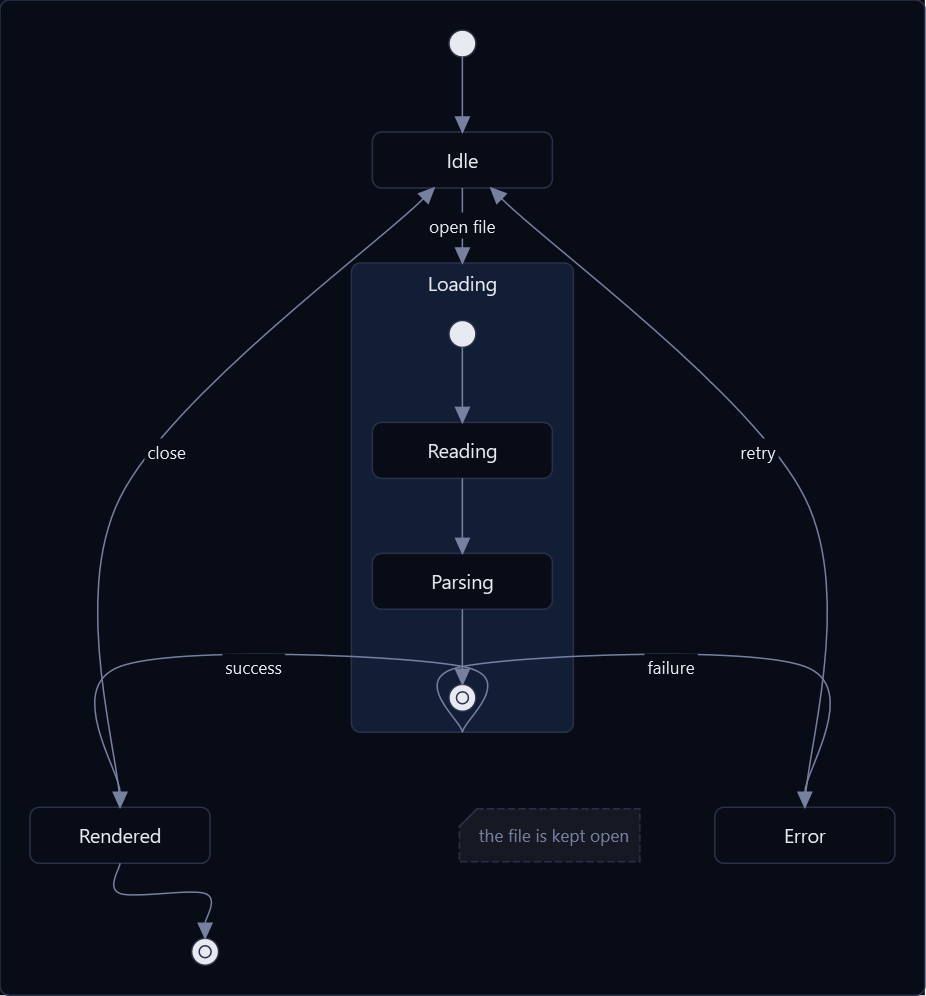
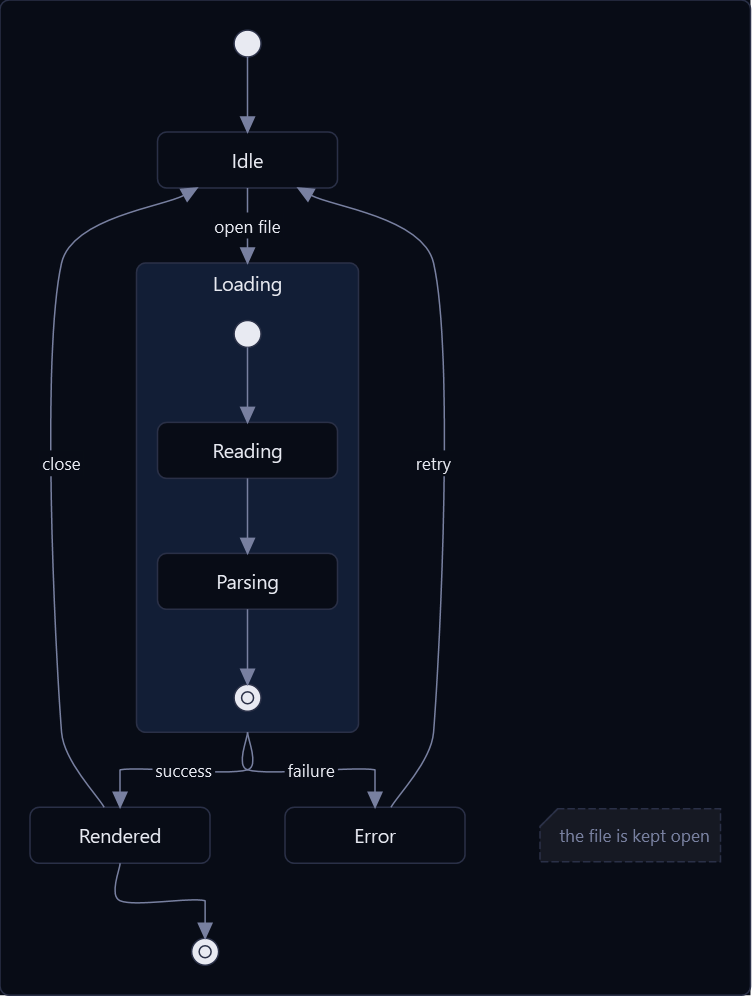
Route a line round what it passes, and into the back of its head
Four things the figures showed, all in the shared layout and connector.

A line turns in the air between two ranks rather than halfway between the
middles of what it joins: a box as deep as everything it holds has its middle
far past the edge the line leaves by, so a line bending there doubled back
into the box.

A line passing a rank runs alongside it rather than through the middle of it,
so it goes round a composite state instead of cutting the corner off it.

Two lines joining the same pair are bowed apart, so a transition each way
shows two arrows rather than one drawn over the other - which the legacy state
renderer did and this had stopped doing.

And a curve holds each handle to its own run, so it no longer overshoots a
corner, with the run into a head straight where that run is only as long as
the head is.

diff --git a/src/Nexaflow.Visuals.Text/Markdown/Mermaid/DiagramLayers.cs b/src/Nexaflow.Visuals.Text/Markdown/Mermaid/DiagramLayers.cs
@@ -101,6 +101,9 @@ internal static class DiagramLayers
     /// <summary>How far a link back to the cell it leaves reaches out beside it.</summary>
     private const double Loops = 18;
 
+    /// <summary>How far apart the lines joining one pair of cells are bowed, so none is drawn on top of another.</summary>
+    private const double Bows = 12;
+
     /// <summary>
     /// Lays every cell out, hands each its <see cref="DiagramCell.Bounds"/> and each join its <see cref="DiagramJoin.Route"/>,
     /// and says how much room it all came to.
@@ -130,6 +133,7 @@ internal static class DiagramLayers
         foreach (var box in Boxes(cells).OrderBy(Deep)) Moved(cells, joins, box);
 
         foreach (var join in joins) join.Route = Routed(join, way);
+        Parted(cells, joins);
 
         return whole;
     }
@@ -209,10 +213,10 @@ internal static class DiagramLayers
         Turned(cells.Count, links);
 
         var ranks = Ranked(cells, links, laning);
-        var rows = Rowed(cells, links, ranks, way, out var placed, out var chains);
+        var rows = Rowed(cells, links, ranks, way, out var placed, out var chains, out var beside);
 
-        Ordered(rows);
-        Spread(rows, between);
+        Ordered(rows, beside);
+        Spread(rows, between, beside);
 
         var banded = laning?.Held(rows, between) ?? 0;
         var whole = Sized(cells, rows, way, along, laning?.Heading ?? 0, banded, out var from, out var deep);
@@ -221,7 +225,8 @@ internal static class DiagramLayers
         laning?.Settled(way, whole);
 
         foreach (var link in links)
-            link.Join.Bends = [.. (link.Turned ? Enumerable.Reverse(chains[link]) : chains[link]).Select(place => place.Middle)];
+            link.Join.Bends =
+                [.. (link.Turned ? Enumerable.Reverse(chains[link]) : chains[link]).SelectMany(place => Passing(place, link.Turned))];
 
         foreach (var edge in edges)
         {
@@ -352,13 +357,21 @@ internal static class DiagramLayers
     /// The places every rank holds: one for each cell in it, and one for every link passing through it — which is what gives a long link
     /// somewhere to bend and a place in the order of its own. A bend is in the band the link is handed from, so a line reaching past a
     /// rank runs down its own band rather than through the next one.
+    ///
+    /// <para>
+    /// A link reaching over no rank at all joins two cells of the one rank, so it ties them nothing: what is tied is read as the rank
+    /// beside, and a place in this rank is not that. It is kept as <paramref name="beside"/> instead, which sets the one next to the
+    /// other without either standing in for the other's neighbours.
+    /// </para>
     /// </summary>
     private static List<List<Place>> Rowed(IReadOnlyList<DiagramCell> cells, IReadOnlyList<Link> links, int[] ranks,
-                                           DiagramWay way, out Place[] placed, out Dictionary<Link, List<Place>> chains)
+                                           DiagramWay way, out Place[] placed, out Dictionary<Link, List<Place>> chains,
+                                           out Dictionary<Place, Place> beside)
     {
         var rows = new List<List<Place>>();
         placed = new Place[cells.Count];
         chains = [];
+        beside = [];
 
         for (var cell = 0; cell < cells.Count; cell++)
         {
@@ -377,6 +390,12 @@ internal static class DiagramLayers
             chains[link] = chain;
 
             if (first == last) continue;
+
+            if (ranks[first] == ranks[last])
+            {
+                beside[placed[last]] = placed[first];
+                continue;
+            }
 
             var before = placed[first];
 
@@ -408,11 +427,11 @@ internal static class DiagramLayers
     }
 
     /// <summary>
-    /// What order each rank is in: as written to start with, then settled so everything sits near what it joins in the rank beside it
-    /// — which is what keeps the lines between two ranks from crossing. Lanes come first: a rank is ordered lane by lane, so a lane's
-    /// band is the same stretch of every rank.
+    /// What order each rank is in: as written to start with, then settled so everything sits near what it joins in the rank beside it —
+    /// which is what keeps the lines between two ranks from crossing. Lanes come first, so a lane's band is the same stretch of every
+    /// rank, and anything set beside another follows it wherever it lands.
     /// </summary>
-    private static void Ordered(List<List<Place>> rows)
+    private static void Ordered(List<List<Place>> rows, IReadOnlyDictionary<Place, Place> beside)
     {
         Numbered(rows);
 
@@ -430,10 +449,32 @@ internal static class DiagramLayers
                     .ToList();
 
                 row.Clear();
-                row.AddRange(settled);
+                row.AddRange(Following(settled, beside));
                 Numbered(rows);
             }
         }
+    }
+
+    /// <summary>Every place set beside another moved to follow it, so the two come out of the ordering next to each other.</summary>
+    private static List<Place> Following(List<Place> row, IReadOnlyDictionary<Place, Place> beside)
+    {
+        if (beside.Count == 0) return row;
+
+        var after = row.Where(place => beside.ContainsKey(place)).ToLookup(place => beside[place]);
+        if (after.Count == 0) return row;
+
+        var settled = new List<Place>(row.Count);
+
+        foreach (var place in row.Where(place => !beside.ContainsKey(place)))
+        {
+            settled.Add(place);
+            settled.AddRange(after[place]);
+        }
+
+        // Anything set beside a place in another rank is left where the ordering put it.
+        settled.AddRange(row.Where(place => beside.ContainsKey(place) && !settled.Contains(place)));
+
+        return settled;
     }
 
     private static void Numbered(List<List<Place>> rows)
@@ -452,10 +493,11 @@ internal static class DiagramLayers
     }
 
     /// <summary>
-    /// Where everything sits across its rank: beside what it joins in the rank beside it, then pushed apart until nothing
-    /// overlaps, and the rank put back where it wanted to be so the ranks stay lined up with each other.
+    /// Where everything sits across its rank: beside what it joins in the rank beside it, then pushed apart until nothing overlaps, and
+    /// the rank put back where it wanted to be so the ranks stay lined up with each other. Anything set beside another wants to be where
+    /// that one is, and is pushed off it by the same air as everything else.
     /// </summary>
-    private static void Spread(List<List<Place>> rows, double between)
+    private static void Spread(List<List<Place>> rows, double between, IReadOnlyDictionary<Place, Place> beside)
     {
         foreach (var row in rows) Apart(row, between);
 
@@ -467,6 +509,12 @@ internal static class DiagramLayers
             {
                 foreach (var place in row)
                 {
+                    if (beside.TryGetValue(place, out var about))
+                    {
+                        place.At = about.At;
+                        continue;
+                    }
+
                     var near = down ? place.Above : place.Below;
                     if (near.Count > 0) place.At = near.Average(other => other.At);
                 }
@@ -539,11 +587,25 @@ internal static class DiagramLayers
                 var size = place.Cell >= 0 ? cells[place.Cell].Size : default;
                 var start = from[place.Rank] + ((deep[place.Rank] - Along(size, way)) / 2);
 
-                place.Middle = Placed(from[place.Rank] + (deep[place.Rank] / 2), place.At, way, whole);
+                place.Near = Placed(from[place.Rank], place.At, way, whole);
+                place.Far = Placed(from[place.Rank] + deep[place.Rank], place.At, way, whole);
 
                 if (place.Cell >= 0)
                     cells[place.Cell].Bounds = Placed(start, place.At - (Across(size, way) / 2), size, way, whole);
             }
+    }
+
+    /// <summary>
+    /// Where a line bending in a rank runs: into the rank and out of it again, rather than through the middle of it — so a line passing
+    /// a rank runs alongside what is in it instead of cutting the corner off a cell as deep as everything it holds. A rank holding
+    /// nothing but bends has no depth to run down, so it is the one place.
+    /// </summary>
+    private static IEnumerable<Point> Passing(Place place, bool turned)
+    {
+        var (first, last) = turned ? (place.Far, place.Near) : (place.Near, place.Far);
+
+        yield return first;
+        if ((last - first).LengthSquared > 1) yield return last;
     }
 
     internal static Rect Placed(double along, double across, Size size, DiagramWay way, Size whole) => way switch
@@ -587,11 +649,74 @@ internal static class DiagramLayers
         if (Math.Abs(down ? from.X - to.X : from.Y - to.Y) < 1) return [from, to];
         if (Math.Abs(down ? from.Y - to.Y : from.X - to.X) < 1) return [from, to];
 
-        var half = down ? (from.Y + to.Y) / 2 : (from.X + to.X) / 2;
+        var half = down
+            ? Halfway(join.From.Bounds.Top, join.From.Bounds.Bottom, join.To.Bounds.Top, join.To.Bounds.Bottom)
+            : Halfway(join.From.Bounds.Left, join.From.Bounds.Right, join.To.Bounds.Left, join.To.Bounds.Right);
 
         return down
             ? [from, new Point(from.X, half), new Point(to.X, half), to]
             : [from, new Point(half, from.Y), new Point(half, to.Y), to];
+    }
+
+    /// <summary>
+    /// Bows apart the lines that would otherwise be drawn one on top of another: two cells joined more than once — a transition each
+    /// way, or two links written between the same pair — are joined by lines that run the same way between the same two points, and one
+    /// would hide the other, its head sitting over the other's line.
+    ///
+    /// <para>
+    /// The ends stay where they are, because that is where the line meets the shape it joins; everything between them is moved aside by
+    /// the line's place among the lines sharing its pair, and a line with nothing between its ends is given somewhere to bow at.
+    /// </para>
+    /// </summary>
+    private static void Parted(IReadOnlyList<DiagramCell> cells, IReadOnlyList<DiagramJoin> joins)
+    {
+        var at = new Dictionary<DiagramCell, int>(cells.Count);
+        for (var cell = 0; cell < cells.Count; cell++) at[cells[cell]] = cell;
+
+        var shared = joins
+            .Where(join => !ReferenceEquals(join.From, join.To) && join.Route.Count >= 2)
+            .Where(join => at.ContainsKey(join.From) && at.ContainsKey(join.To))
+            .GroupBy(join => (Math.Min(at[join.From], at[join.To]), Math.Max(at[join.From], at[join.To])));
+
+        foreach (var pair in shared)
+        {
+            var many = pair.ToList();
+            if (many.Count < 2) continue;
+
+            for (var one = 0; one < many.Count; one++)
+            {
+                var aside = (one - ((many.Count - 1) / 2.0)) * Bows;
+                if (Math.Abs(aside) > 1e-9) many[one].Route = Bowing(many[one].Route, aside);
+            }
+        }
+    }
+
+    /// <summary>A route moved aside from the straight run between its ends, which stay where they meet what they join.</summary>
+    private static IReadOnlyList<Point> Bowing(IReadOnlyList<Point> route, double aside)
+    {
+        var along = route[^1] - route[0];
+        if (along.Length < 1e-9) return route;
+
+        along.Normalize();
+        var across = new Vector(-along.Y, along.X) * aside;
+
+        return route.Count == 2
+            ? [route[0], new Point(((route[0].X + route[1].X) / 2) + across.X, ((route[0].Y + route[1].Y) / 2) + across.Y), route[1]]
+            : [route[0], .. route.Skip(1).SkipLast(1).Select(bend => bend + across), route[^1]];
+    }
+
+    /// <summary>
+    /// Where a join bends on its way from one cell to the next: halfway across the clear air between the two of them, rather than
+    /// halfway between their middles — a box as deep as everything it holds has its middle far past the edge the line leaves it by, and
+    /// a line bending there would double back into the box. Where the two overlap there is no air between them, so it bends between
+    /// their middles as before.
+    /// </summary>
+    private static double Halfway(double from, double past, double to, double beyond)
+    {
+        if (to >= past) return (past + to) / 2;
+        if (from >= beyond) return (beyond + from) / 2;
+
+        return (from + past + to + beyond) / 4;
     }
 
     /// <summary>A join back to the cell it leaves: out beside it and back again.</summary>
@@ -651,8 +776,10 @@ internal static class DiagramLayers
         /// <summary>Where across its rank it sits.</summary>
         public double At { get; set; }
 
-        /// <summary>Its middle, which is where a line bending here runs through.</summary>
-        public Point Middle { get; set; }
+        /// <summary>Where a line bending here comes into the rank, and where it leaves it.</summary>
+        public Point Near { get; set; }
+
+        public Point Far { get; set; }
 
         public List<Place> Above { get; } = [];
 

diff --git a/src/Nexaflow.Visuals.Text/Markdown/Mermaid/DiagramConnector.cs b/src/Nexaflow.Visuals.Text/Markdown/Mermaid/DiagramConnector.cs
@@ -276,7 +276,20 @@ internal static class DiagramConnector
 
     // ── Lines ───────────────────────────────────────────────────────────────
 
-    /// <summary>The line through the points: straight between them, or a curve through every one.</summary>
+    /// <summary>
+    /// The line a route is drawn as: straight from point to point, or curved through every one of them.
+    ///
+    /// <para>
+    /// Curved, it is a Catmull-Rom spline written as cubic Béziers, so the line passes through the route rather than near it, with each
+    /// handle held to a third of the run it belongs to — the tangent at a corner points the way the route turns, and left to its own
+    /// length it would carry the line past the corner and back.
+    /// </para>
+    /// <para>
+    /// <strong>A stub at either end is straight.</strong> A line turns in the air between two ranks, so the run from that turn to what
+    /// it joins is about as long as the head it carries; a corner's tangent across a run that short bows it right where the head is, and
+    /// the hook shows. So a run no longer than twice a head goes straight into what it meets, and every longer run keeps its curve.
+    /// </para>
+    /// </summary>
     private static Geometry Line(IReadOnlyList<Point> points, bool curved)
     {
         var line = new StreamGeometry();
@@ -290,17 +303,31 @@ internal static class DiagramConnector
             }
             else
             {
-                // Catmull-Rom through every point, as cubic Béziers: the curve passes through the route rather than near it.
                 for (var at = 0; at < points.Count - 1; at++)
                 {
                     var (before, from, to, after) = (points[Math.Max(0, at - 1)], points[at], points[at + 1], points[Math.Min(points.Count - 1, at + 2)]);
-                    pen.BezierTo(from + ((to - before) / 6), to - ((after - from) / 6), to, isStroked: true, isSmoothJoin: true);
+                    var run = to - from;
+                    var most = run.Length / 3;
+                    var stub = run.Length <= HeadLength * 2;
+
+                    var lead = stub && at == points.Count - 2 ? run / 3 : Held((to - before) / 6, most);
+                    var trail = stub && at == 0 ? run / 3 : Held((after - from) / 6, most);
+
+                    pen.BezierTo(from + lead, to - trail, to, isStroked: true, isSmoothJoin: true);
                 }
             }
         }
 
         line.Freeze();
         return line;
+    }
+
+    /// <summary>A handle held to how far it may reach, keeping its direction — what stops a curve overshooting its own corner.</summary>
+    private static Vector Held(Vector handle, double most)
+    {
+        var reach = handle.Length;
+
+        return reach <= most || reach < 1e-9 ? handle : handle * (most / reach);
     }
 
     private static Vector Direction(Point from, Point to)

diff --git a/src/Nexaflow.Tests/Nexaflow.Tests.Visuals/Markdown/Mermaid/DiagramConnectorTests.cs b/src/Nexaflow.Tests/Nexaflow.Tests.Visuals/Markdown/Mermaid/DiagramConnectorTests.cs
@@ -48,6 +48,39 @@ public class DiagramConnectorTests
     });
 
     [TestMethod]
+    public void ACurvedLineRunsStraightIntoItsHead_AndDoesNotBowPastItsCorners() => UiThread.Run(() =>
+    {
+        // The route a layered layout hands over: down, across, and down again, squared off so it leaves and arrives head on.
+        var along = Flattened(Curved(DiagramHead.Arrow, new Point(0, 0), new Point(0, 50), new Point(100, 50), new Point(100, 100)));
+
+        var strayed = along.Where(at => at.Y > 60).Select(at => Math.Abs(at.X - 100)).DefaultIfEmpty(0).Max();
+        Assert.IsTrue(strayed < 0.5, $"the run into the head is straight, and this one bows {strayed:0.0} to the side of it");
+
+        var left = along.Where(at => at.Y < 40).Select(at => Math.Abs(at.X)).DefaultIfEmpty(0).Max();
+        Assert.IsTrue(left < 0.5, $"the run out of what it leaves is straight too, and this one bows {left:0.0}");
+
+        Assert.IsTrue(along.All(at => at.X >= -0.5 && at.X <= 100.5),
+                      "and it never bows past a corner, which is what holding each handle to its own run is for");
+    });
+
+    /// <summary>Every point a curved line comes to, the curve flattened to the lines it is drawn as.</summary>
+    private static Point[] Flattened(Piece edge) =>
+        [.. PathGeometry.CreateFromGeometry(edge.Marks.ToArray().OfType<GeometryMark>().First().Shape)
+                        .GetFlattenedPathGeometry()
+                        .Figures
+                        .SelectMany(figure => figure.Segments.OfType<PolyLineSegment>().SelectMany(segment => segment.Points))];
+
+    private static Piece Curved(DiagramHead end, params Point[] route)
+    {
+        var build = new LayoutBuilder();
+        build.Open("page");
+        DiagramConnector.Draw(build, "Edge", new TestPart(0, 3), route, new DiagramStroke(Brushes.Black), end: end, curved: true);
+        build.Close();
+
+        return build.Seal().Root.SelfAndDescendants().Single(piece => piece.Kind == "Edge");
+    }
+
+    [TestMethod]
     public void TheLineStopsWhereAHollowHeadStarts() => UiThread.Run(() =>
     {
         foreach (var head in new[] { DiagramHead.Triangle, DiagramHead.HollowDiamond, DiagramHead.Circle })

diff --git a/docs/mermaid-diagrams.md b/docs/mermaid-diagrams.md
@@ -86,10 +86,10 @@ diagram's own code sits in a folder of its own under each.
 | draw a node: a shape with words in it | `DiagramShapes.Draw` — its words in the middle, or several placed where the diagram puts them, less what else is drawn over it; `Around` sizes a shape for its words, `Edge` is where a line meets it, `Clear` is where a shape of your own stands with words over it |
 | set words that wrap to a width, breaking where a `<br>` says to, each line typed into as the characters it holds | `Wrapped` |
 | lay a tree out tidily — children beside their parent, the root's either side | `DiagramTree.Lay` |
-| lay nodes joined by lines out in ranks — a flowchart, a state chart | `DiagramLayers.Lay` of `DiagramCell`s and `DiagramJoin`s: ranks by how far the links reach, an order that keeps few lines crossing, boxes laid out in their own space and run their own way, and a route for every line |
+| lay nodes joined by lines out in ranks — a flowchart, a state chart | `DiagramLayers.Lay` of `DiagramCell`s and `DiagramJoin`s: ranks by how far the links reach, an order that keeps few lines crossing, boxes laid out in their own space and run their own way, and a route for every line — turning in the air between two ranks rather than between the middles of what it joins, running alongside a rank it passes rather than across what is in it, and bowed aside from any other line joining the same pair |
 | lay the same out in lanes — a swimlane | `DiagramLanes` of `DiagramLane`s, given to `DiagramLayers.Lay`: each cell keeps to the band its `DiagramCell.Lane` names, a lane's cells come one to a rank, and a link handed between two lanes goes across rather than on. A lane is not a cell — it is the band its cells are laid out in, and comes back its `Bounds` and the `Strip` at the near end where its name goes |
 | set a shape's words turned — a lane's name read up its band | `DiagramShapes.Draw` with `degrees`, which stands the words in the room the turn leaves them |
-| draw a link written one of Mermaid's ways | `DiagramConnector.Headed` for what each end draws, `DiagramConnector.Stroked` for its line, `DiagramInk.Dashes` for a `stroke-dasharray` |
+| draw a link written one of Mermaid's ways | `DiagramConnector.Headed` for what each end draws, `DiagramConnector.Stroked` for its line, `DiagramInk.Dashes` for a `stroke-dasharray`. Curved, the line passes through its route with each handle held to its own run and the runs at either end straight, so a corner is filleted and the line goes into a head along the head's own axis |
 | gather what a diagram reaches and move it inside the box it takes | `DiagramRoom` — `Reach`, then `At` and `Size` |
 | set the lines of a wrapped label, against a side | `DiagramWords.Stack`, `Placed` for a shape's own words, `Taken` for how much room they take |
 | set words that may hold an entity code — drawn as what the code says, and so pressed rather than typed into | `Says` on the builder |

diff --git a/docs/MarkdownSupport.md b/docs/MarkdownSupport.md
@@ -242,7 +242,8 @@ space so a `direction` line runs it its own way; `<<fork>>`, `<<join>>` and `<<c
 also reads; `--` dividing a composite state into regions running at the same time, drawn as a line the width of its box;
 notes written `note left of` or `note right of`, on one line or **across several until an `end note`**, and floating
 notes `note "…" as id`; `classDef`, `class`, `:::` and `style`, where `start` and `end` name the dots; `click` with a
-URL and a tooltip; `direction`; `accTitle`/`accDescr`; comments; and a title from the front matter. **A composite state
+URL and a tooltip; `direction`; `accTitle`/`accDescr`; comments; and a title from the front matter. Two transitions between
+the same pair of states — one each way — are **bowed apart** so both arrows show. **A composite state
 holds its states in the layout** and is drawn behind them, so pressing a state means that state and pressing the room
 round it means the composite state — which stands for the whole `state … }` it was written as. **The front matter is
 applied** ([`StateConfig`](../src/Nexaflow.Markdown/Mermaid/State/StateConfig.cs)): `config: state:` `nodeSpacing`,
